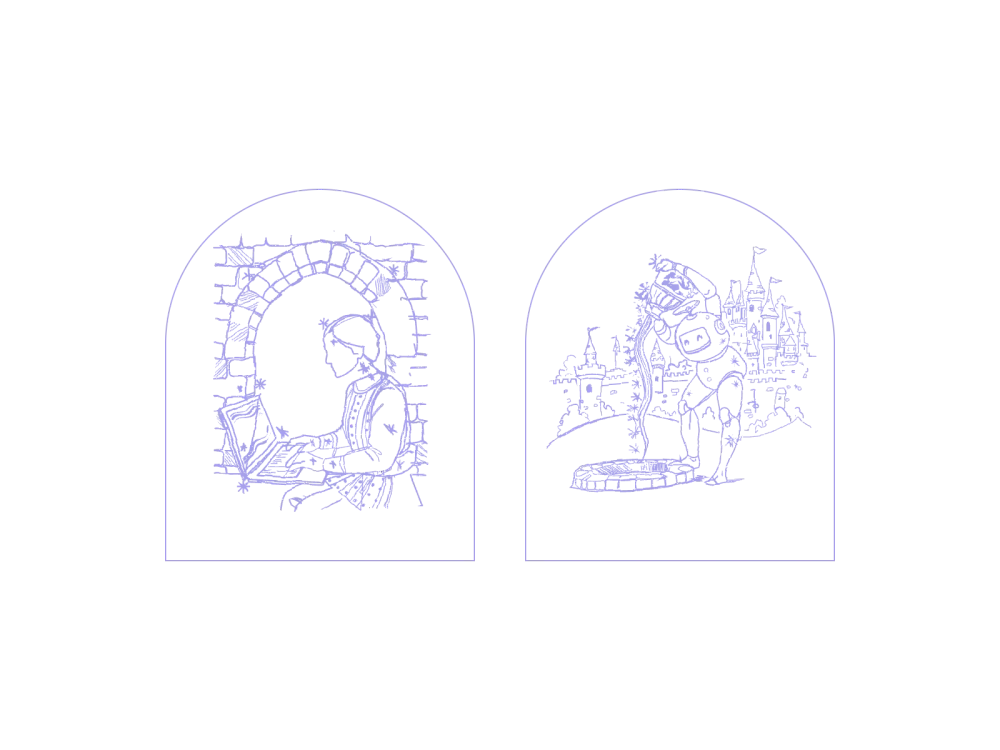
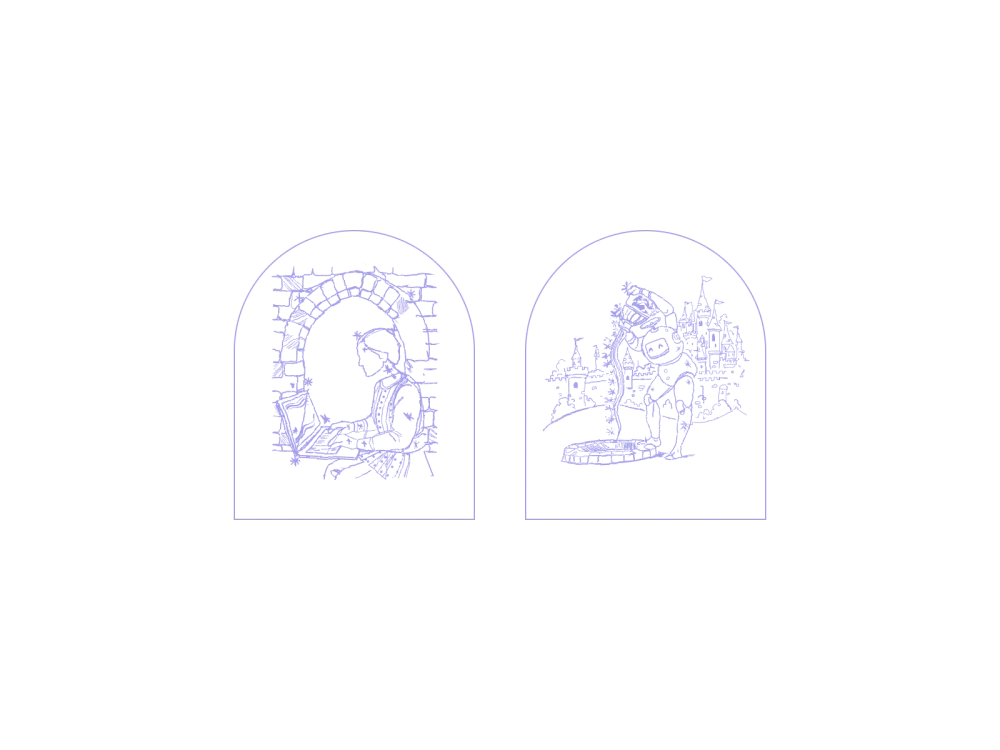
fix: arch

diff --git a/src/features/experiments/components/arch-vitrines-demo.tsx b/src/features/experiments/components/arch-vitrines-demo.tsx
@@ -7,11 +7,13 @@ import { VITRINES } from "@/features/experiments/components/arch-vitrines-art";
    texture without fattening them. Static — the plates render instantly, no entrance animation. */
 
 export const ArchVitrines = () => (
-  <div className="absolute inset-0 flex items-center justify-center gap-6 p-6 text-[#463996] sm:gap-10 dark:text-[#a6a1ea]">
+  <div className="absolute inset-0 flex items-center justify-center gap-4 p-4 text-[#463996] md:gap-10 md:p-6 dark:text-[#a6a1ea]">
     {VITRINES.map((v) => (
       <div
         key={v.key}
-        className="flex h-[54%] shrink-0 items-center justify-center overflow-hidden rounded-t-full border-[1.5px] border-current p-3 [&_svg]:size-full [&_svg]:object-contain"
+        // Width-driven on the narrow mobile sheet so two arches always fit across; height-driven
+        // on the wide desktop dialog. Only ever one dimension is fixed, so the 5/6 shape holds.
+        className="flex w-[42%] max-w-[9rem] items-center justify-center overflow-hidden rounded-t-full border-[1.5px] border-current p-2.5 md:h-[42%] md:w-auto md:max-w-none [&_svg]:size-full [&_svg]:object-contain"
         style={{ aspectRatio: "5 / 6" }}
         // Inlined so each stroke resolves currentColor against the arch's ink.
         dangerouslySetInnerHTML={{ __html: v.svg }}
